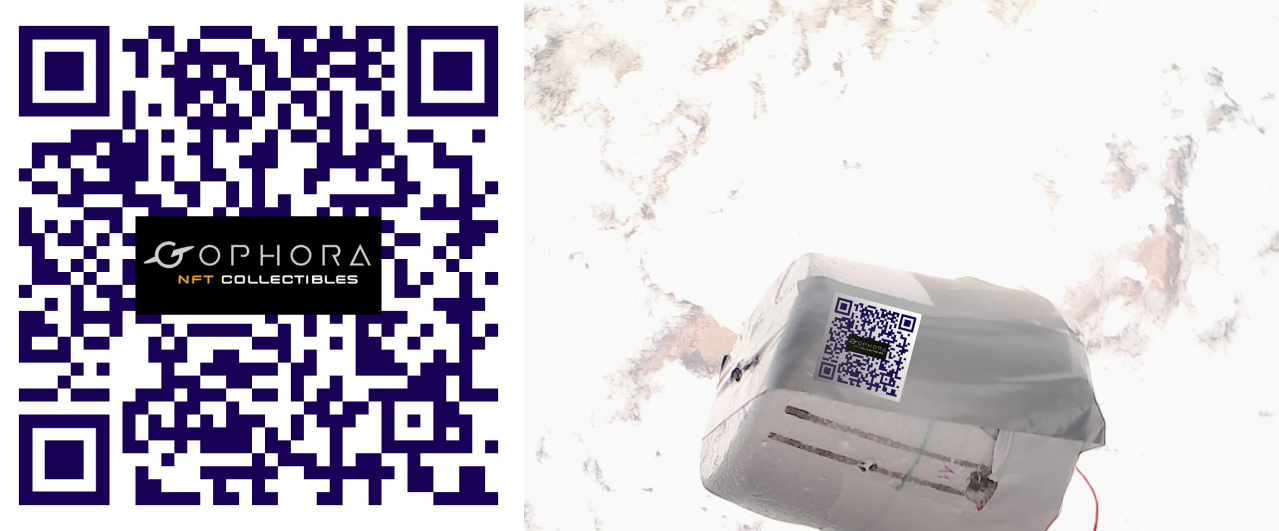
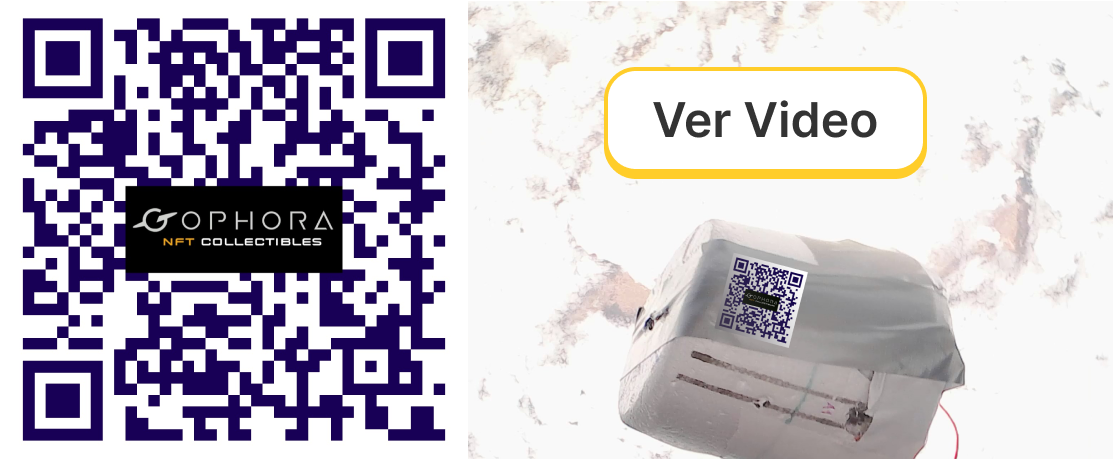
[update] general changes

diff --git a/src/screens/PreguntasScreen.jsx b/src/screens/PreguntasScreen.jsx
@@ -13,10 +13,18 @@ function PreguntasScreen() {
   return (
     <section className="home-section font-class font-sizesm my-5" id="preguntas">
         <div className="container d-flex flex-column align-items-center">
-            <h1 className="text-warning mb-5 desplegar" onClick={() => handleToggleVisibility('preguntasFrecuentes')}>Preguntas Frecuentes</h1>
+            <h1 className="text-warning mb-5 desplegar" onClick={() => handleToggleVisibility('preguntasFrecuentes')}>
+              Preguntas Frecuentes
+              {expandedSections['preguntasFrecuentes'] && (<i className="bi bi-caret-up"></i>)}
+              {!expandedSections['preguntasFrecuentes'] && (<i className="bi bi-caret-down"></i>)}
+              </h1>
               {expandedSections['preguntasFrecuentes'] && (
               <div>
-                <h3 className="text-warning mb-3 desplegar" onClick={() => handleToggleVisibility('quienesSomos')}>¿Quiénes somos?</h3>
+                <h3 className="text-warning mb-3 desplegar" onClick={() => handleToggleVisibility('quienesSomos')}>
+                  ¿Quiénes somos?
+                  {expandedSections['quienesSomos'] && (<i className="bi bi-caret-up"></i>)}
+                  {!expandedSections['quienesSomos'] && (<i className="bi bi-caret-down"></i>)}
+                </h3>
                   {expandedSections['quienesSomos'] && (
                   <div className='d-flex flex-column mb-5 text-light'>
                       <p>Bienvenidos a GOPHORA INC., una innovadora startup con base en Florida, EE. UU., fundada el 5 de Octubre de 2020 en Santa Cruz de la Sierra, Bolivia, a través del distinguido programa virtual del Founder Institute de Silicon Valley.</p>
@@ -33,7 +41,11 @@ function PreguntasScreen() {
                       <img src={gophoraTeam} alt="gophora team" className='img-fluid'  />
                   </div>
                   )}
-                <h3 className="text-warning mb-3 desplegar" onClick={() => handleToggleVisibility('pregunta2')}>¿Qué es y que contiene el QR que enviamos al espacio el 11.11.23?</h3>
+                <h3 className="text-warning mb-3 desplegar" onClick={() => handleToggleVisibility('pregunta2')}>
+                  ¿Qué es y que contiene el QR que enviamos al espacio el 11.11.23?
+                  {expandedSections['pregunta2'] && (<i className="bi bi-caret-up"></i>)}
+                  {!expandedSections['pregunta2'] && (<i className="bi bi-caret-down"></i>)}
+                </h3>
                   {expandedSections['pregunta2'] && (
                     <div className='d-flex flex-column mb-5 text-light'>
                         <p></p>El QR que subimos el 11.11.23 en un modulo que llevaba 5 experimentos al espacio es un reconocimiento a los holders de los GOPHORA NFT COLLECTIBLES, es un símbolo de que ellos ahora son parte de la siguiente generación de exploradores que colaboran desde 
@@ -44,7 +56,11 @@ function PreguntasScreen() {
                         <p></p>Es la primera vez en la historia en que todos los NO ASTRONAUTAS tenemos la oportunidad de acoplarnos desde nuestra vida diaria a la exploración espacial.
                     </div>
                   )}
-                <h3 className="text-warning mb-3 desplegar" onClick={() => handleToggleVisibility('pregunta3')}>¿Cuál es la visión Macro de GOPHORA?</h3>
+                <h3 className="text-warning mb-3 desplegar" onClick={() => handleToggleVisibility('pregunta3')}>
+                  ¿Cuál es la visión Macro de GOPHORA?
+                  {expandedSections['pregunta3'] && (<i className="bi bi-caret-up"></i>)}
+                  {!expandedSections['pregunta3'] && (<i className="bi bi-caret-down"></i>)}
+                </h3>
                   {expandedSections['pregunta3'] && (
                     <div className='d-flex flex-column mb-5 text-light'>
                       <p></p>En GOPHORA, creamos un futuro donde la exploración se convierte en una experiencia única y personalizada para cada individuo.
@@ -57,7 +73,11 @@ function PreguntasScreen() {
                       <p></p>GOPHORA no solo es una plataforma; es un movimiento que a los holders y tripulantes nos define cómo exploradores. 
                     </div>
                   )}
-                <h3 className="text-warning mb-3 desplegar" onClick={() => handleToggleVisibility('pregunta4')}>¿Qué son los GOPHORA NFT COLLECTIBLES?</h3>
+                <h3 className="text-warning mb-3 desplegar" onClick={() => handleToggleVisibility('pregunta4')}>
+                  ¿Qué son los GOPHORA NFT COLLECTIBLES?
+                  {expandedSections['pregunta4'] && (<i className="bi bi-caret-up"></i>)}
+                  {!expandedSections['pregunta4'] && (<i className="bi bi-caret-down"></i>)}
+                </h3>
                   {expandedSections['pregunta4'] && (
                     <div className='d-flex flex-column mb-5 text-light'>
                         <p></p>Los GOPHORA NFT Collectibles son llaves digitales de acceso temprano al ecosistema GOPHORA. 
@@ -68,7 +88,11 @@ function PreguntasScreen() {
                         <p></p> Los GOPHORA NFT Collectibles no solo son identificativos digitales de los intrépidos, innovadores, curiosos miembros de la siguiente generación de exploradores, sino que ofrecen un pasaporte exclusivo a un mundo de oportunidades dentro de GOPHORA, fusionando la propiedad digital con experiencias únicas y perpetuas en la exploración del espacio y el crecimiento personal.
                     </div>
                   )}
-                <h3 className="text-warning mb-3 desplegar" onClick={() => handleToggleVisibility('pregunta5')}>¿Qué significa ser Holder de uno de los NFT´s de GOPHORA?</h3>
+                <h3 className="text-warning mb-3 desplegar" onClick={() => handleToggleVisibility('pregunta5')}>
+                  ¿Qué significa ser Holder de uno de los NFT´s de GOPHORA?
+                  {expandedSections['pregunta5'] && (<i className="bi bi-caret-up"></i>)}
+                  {!expandedSections['pregunta5'] && (<i className="bi bi-caret-down"></i>)}
+                </h3>
                   {expandedSections['pregunta5'] && (
                     <div className='d-flex flex-column mb-5 text-light'>
                         <p></p>Ser holder de un GOPHORA NFT Collectible significa que eres el propietario de un Token No Fungible (NFT) específico emitido por GOPHORA Inc. Un NFT representa la propiedad única y verificable de un activo digital, en este caso, un GOPHORA NFT Collectible.
@@ -84,7 +108,11 @@ function PreguntasScreen() {
                         </ol>
                     </div>
                   )}
-                <h3 className="text-warning mb-3 desplegar" onClick={() => handleToggleVisibility('pregunta6')}>¿Qué son los Criptopurrs?</h3>
+                <h3 className="text-warning mb-3 desplegar" onClick={() => handleToggleVisibility('pregunta6')}>
+                  ¿Qué son los Criptopurrs?
+                  {expandedSections['pregunta6'] && (<i className="bi bi-caret-up"></i>)}
+                  {!expandedSections['pregunta6'] && (<i className="bi bi-caret-down"></i>)}
+                </h3>
                   {expandedSections['pregunta6'] && (
                     <div className='d-flex flex-column mb-5 text-light'>
                       <p></p>Los GOPHORA NFT Collectibles: Criptopurrs MARTE ID, Criptopurrs EA o Criptopurrs Investor son activos digitales únicos y coleccionables basados en la tecnología de tokens no fungibles (NFT). 
@@ -96,7 +124,11 @@ function PreguntasScreen() {
                       <p></p>Al adquirir un Criptopurr de GOPHORA, los usuarios no solo obtienen una llave  digital exclusiva, sino que también se convierten en parte de la narrativa y la evolución de GOPHORA, contribuyendo a su misión de trascender los límites de la exploración y la vida en otros mundos.
                     </div>
                   )}
-                <h3 className="text-warning mb-3 desplegar" onClick={() => handleToggleVisibility('pregunta7')}>¿Qué utilidad tiene el NFT MARTE ID?</h3>
+                <h3 className="text-warning mb-3 desplegar" onClick={() => handleToggleVisibility('pregunta7')}>
+                  ¿Qué utilidad tiene el NFT MARTE ID?
+                  {expandedSections['pregunta7'] && (<i className="bi bi-caret-up"></i>)}
+                  {!expandedSections['pregunta7'] && (<i className="bi bi-caret-down"></i>)}
+                </h3>
                 {expandedSections['pregunta7'] && (
                     <div className='d-flex flex-column mb-5 text-light'>
                       <p></p>Los CRIPTOPURRS MARTE ID representan accesos digitales exclusivos a la GOPHORA STARSHIP, diseñados para los niveles 1 y 2.
@@ -107,7 +139,11 @@ function PreguntasScreen() {
                       <p></p>Con la capacidad de combinar estas oportunidades de manera única, cada tripulante puede obtener un resultado personalizado que potencie su crecimiento y desarrollo.
                     </div>
                   )}
-                <h3 className="text-warning mb-3 desplegar" onClick={() => handleToggleVisibility('pregunta8')}>¿Qué utilidad tiene el NFT CRIPTOPURR EA?</h3>
+                <h3 className="text-warning mb-3 desplegar" onClick={() => handleToggleVisibility('pregunta8')}>
+                  ¿Qué utilidad tiene el NFT CRIPTOPURR EA?
+                  {expandedSections['pregunta8'] && (<i className="bi bi-caret-up"></i>)}
+                  {!expandedSections['pregunta8'] && (<i className="bi bi-caret-down"></i>)}
+                </h3>
                 {expandedSections['pregunta8'] && (
                     <div className='d-flex flex-column mb-5 text-light'>
                       <p></p>Los CRIPTOPURRS EA representan accesos digitales más exclusivos a la GOPHORA STARSHIP, diseñados para los niveles 3 y 4.
@@ -117,7 +153,11 @@ function PreguntasScreen() {
                       <p></p>Aquí, la experiencia es totalmente automática y no requiere la destreza del tripulante como piloto. Esta modalidad proporciona combinaciones de experiencia inmediatas, y también le brinda al tripulante acceso a horizontes a medida del tripulante holder para  obtener un resultado personalizado que potencie su crecimiento y desarrollo.
                     </div>
                   )}
-                <h3 className="text-warning mb-3 desplegar" onClick={() => handleToggleVisibility('pregunta9')}>¿Cómo puedo comprar uno de los NFTs de GOPHORA?</h3>
+                <h3 className="text-warning mb-3 desplegar" onClick={() => handleToggleVisibility('pregunta9')}>
+                  ¿Cómo puedo comprar uno de los NFTs de GOPHORA?
+                  {expandedSections['pregunta9'] && (<i className="bi bi-caret-up"></i>)}
+                  {!expandedSections['pregunta9'] && (<i className="bi bi-caret-down"></i>)}  
+                </h3>
                   {expandedSections['pregunta9'] && (
                     <div className='d-flex flex-column mb-5 text-light'>
                       <p></p>Actualmente los GOPHORA NFT COLLECTIBLES : Criptopurrs pueden ser adquiridos por venta directa en GOPHORA desde el formulario de Preembarque o desde Open Sea según los siguientes precios:
@@ -126,7 +166,11 @@ function PreguntasScreen() {
                       </a>
                     </div>
                   )}
-                <h3 className="text-warning mb-3 desplegar" onClick={() => handleToggleVisibility('pregunta10')}>¿Qué es la GOPHORA STARSHIP?</h3>
+                <h3 className="text-warning mb-3 desplegar" onClick={() => handleToggleVisibility('pregunta10')}>
+                  ¿Qué es la GOPHORA STARSHIP?
+                  {expandedSections['pregunta10'] && (<i className="bi bi-caret-up"></i>)}
+                  {!expandedSections['pregunta10'] && (<i className="bi bi-caret-down"></i>)}  
+                </h3>
                   {expandedSections['pregunta10'] && (
                     <div className='d-flex flex-column mb-5 text-light'>
                       <p></p>La GOPHORA STARSHIP es la avanzada plataforma central de GOPHORA, diseñada para ofrecer una experiencia única de exploración personal y profesional que no solo beneficia al tripulante sino deja un registro de contribución y habilidades excepcionales que son conectadas con la exploración espacial para que podamos ser sustentables y sostenibles en nuevos horizontes. 
@@ -140,7 +184,11 @@ function PreguntasScreen() {
                       <p></p>La GOPHORA STARSHIP redefine la exploración al fusionar lo manual y lo automático, brindando oportunidades personalizadas y exclusivas a cada tripulante. Descubre un viaje hacia horizontes sin igual en GOPHORA STARSHIP.
                     </div>
                   )}
-                <h3 className="text-warning mb-3 desplegar" onClick={() => handleToggleVisibility('pregunta11')}>¿En cuántos países estará disponible la herramienta GOPHORA STARSHIP?</h3>
+                <h3 className="text-warning mb-3 desplegar" onClick={() => handleToggleVisibility('pregunta11')}>
+                  ¿En cuántos países estará disponible la herramienta GOPHORA STARSHIP?
+                  {expandedSections['pregunta11'] && (<i className="bi bi-caret-up"></i>)}
+                  {!expandedSections['pregunta11'] && (<i className="bi bi-caret-down"></i>)}
+                </h3>
                   {expandedSections['pregunta11'] && (
                     <div className='d-flex flex-column mb-5 text-light'>
                       <p></p>La herramienta GOPHORA STARSHIP tiene como objetivo llegar a múltiples países en diversas fases estratégicas, por el momento es impreciso estimar un número pero si estaremos presentes en diferentes idiomas, y regiones del mundo. 
@@ -153,7 +201,11 @@ function PreguntasScreen() {
                       <p></p>GOPHORA STARSHIP se proyecta como una herramienta global, disponible en diversos países, permitiendo a personas de diferentes culturas y regiones explorar nuevas oportunidades y contribuir a la exploración del espacio.
                     </div>
                   )}
-                <h3 className="text-warning mb-3 desplegar" onClick={() => handleToggleVisibility('pregunta12')}>¿Cuál es la ventaja de comprar AHORA un GOPHORA NFT COLLECTIBLE?</h3>
+                <h3 className="text-warning mb-3 desplegar" onClick={() => handleToggleVisibility('pregunta12')}>
+                  ¿Cuál es la ventaja de comprar AHORA un GOPHORA NFT COLLECTIBLE?
+                  {expandedSections['pregunta12'] && (<i className="bi bi-caret-up"></i>)}
+                  {!expandedSections['pregunta12'] && (<i className="bi bi-caret-down"></i>)}
+                </h3>
                   {expandedSections['pregunta12'] && (
                     <div className='d-flex flex-column mb-5 text-light'>
                       <p>La compra de un GOPHORA NFT Collectible ahora ofrece varias ventajas distintivas:</p>
@@ -168,7 +220,11 @@ function PreguntasScreen() {
                       <p></p>Comprar ahora un GOPHORA NFT Collectible no solo te brinda acceso privilegiado a la plataforma y beneficios exclusivos, sino que también representa una oportunidad de ser parte de la comunidad de exploradores y beneficiarte de su valor a lo largo del tiempo.
                     </div>
                   )}
-                <h3 className="text-warning mb-3 desplegar" onClick={() => handleToggleVisibility('pregunta13')}>¿Cómo se holdean o guardan los NFTs de GOPHORA?</h3>
+                <h3 className="text-warning mb-3 desplegar" onClick={() => handleToggleVisibility('pregunta13')}>
+                  ¿Cómo se holdean o guardan los NFTs de GOPHORA?
+                  {expandedSections['pregunta13'] && (<i className="bi bi-caret-up"></i>)}
+                  {!expandedSections['pregunta13'] && (<i className="bi bi-caret-down"></i>)}  
+                </h3>
                   {expandedSections['pregunta13'] && (
                     <div className='d-flex flex-column mb-5 text-light'>
                       <p>Holdear (o &quot;HODL&quot; en la jerga criptográfica) los GOPHORA NFT Collectibles es un proceso sencillo que implica retenerlos a largo plazo en lugar de venderlos de inmediato.</p>
@@ -184,7 +240,11 @@ function PreguntasScreen() {
                       </ol>
                     </div>
                   )}
-                <h3 className="text-warning mb-3 desplegar" onClick={() => handleToggleVisibility('pregunta14')}>¿Cómo puedo formar parte del proyecto?</h3>
+                <h3 className="text-warning mb-3 desplegar" onClick={() => handleToggleVisibility('pregunta14')}>
+                  ¿Cómo puedo formar parte del proyecto?
+                  {expandedSections['pregunta14'] && (<i className="bi bi-caret-up"></i>)}
+                  {!expandedSections['pregunta14'] && (<i className="bi bi-caret-down"></i>)}
+                </h3>
                   {expandedSections['pregunta14'] && (
                     <div className='d-flex flex-column mb-5 text-light'>
                       <p>Puedes formar parte de GOPHORA STARSHIP en diferentes formas, desde ser un usuario activo hasta contribuir como miembro de la comunidad o incluso explorar oportunidades más colaborativas.</p>
@@ -201,7 +261,11 @@ function PreguntasScreen() {
                       </ol>
                     </div>
                   )}
-                <h3 className="text-warning mb-3 desplegar" onClick={() => handleToggleVisibility('pregunta15')}>¿Cómo invertir en GOPHORA?</h3>
+                <h3 className="text-warning mb-3 desplegar" onClick={() => handleToggleVisibility('pregunta15')}>
+                  ¿Cómo invertir en GOPHORA?
+                  {expandedSections['pregunta15'] && (<i className="bi bi-caret-up"></i>)}
+                  {!expandedSections['pregunta15'] && (<i className="bi bi-caret-down"></i>)}  
+                </h3>
                   {expandedSections['pregunta15'] && (
                     <div className='d-flex flex-column mb-5 text-light'>
                       <p>Puedes invertir en GOPHORA de 2 maneras:</p>

diff --git a/src/screens/NFTcollectibles.jsx b/src/screens/NFTcollectibles.jsx
@@ -12,10 +12,18 @@ function NFTcollectibles() {
             {/* <span className="text-warning">NFT </span> */}
              MEMBRESIAS
         </h1>
-        <p className="text-light text-center font-class w-75 pb-5">
-          {/* *Obtén tu acceso directamente desde GOPHORA antes que se agote nuestro suministro limitado de NFTs para tu país y tengas que ir a OpenSea o adquirir un plan de pago por suscripción.”  */}
-          *Obtén tu acceso directamente desde GOPHORA antes que tengas que adquirir un plan de pago por suscripción.” 
-        </p>
+        <div className="text-light d-flex justify-content-center font-class w-75 pb-5">
+              <ul>
+                <li>Nombre en QR Espacial.</li>
+                <li>Horizontes de Trabajo ilimitados.</li>
+                <li>Horizontes de Educación ilimitados.</li>
+                <li>Horizontes de Experiencias hobbies ilimitados.</li>
+                <li>(Próximamente) 20% de descuento en accesorios para experiencia GOPHORA AR/VR.</li>
+                <li>(Próximamente) Contribución sobre Blockchain.</li>
+                <li>(Próximamente) Acceso a Metaverso GOPHORA.</li>
+              </ul>
+        </div>
+
         <h2 className="font-class my-3 text-center font-2">
           {/* DISPONIBLES */}
           {/* Accesos para Tripulantes */}
@@ -95,16 +103,20 @@ function NFTcollectibles() {
           pm="2800"
         />
         {/* GUIA */}
-        <h1 className="text-light font-class p-5">
+        <h1 className="text-warning font-class p-5">
             {/* GUÍA PARA COMPRAR UN <span className="text-warning">NFT </span> GOPHORA */}
             GUÍA PARA RECIBIR UN ACCESO DIGITAL <span className="text-warning">NFT </span> GOPHORA
         </h1>
         <p className="text-light text-center font-class w-75 p-5">
-        Descarga una billetera cripto, puede ser Metamask o Coinbase WALLET, si ya tienes una ¡perfecto! solo asegúrate que tengas una dirección de Ethereum a la cual se te podamos mandar tus GOPHORA NFT COLLECTIBLES CRIPTOPURRS MARTE ID o CRIPTOPURRS EA.
+          Descarga una billetera cripto, puede ser Metamask o Coinbase WALLET, si ya tienes una ¡perfecto! solo asegúrate que tengas una dirección de Ethereum a la cual se te podamos mandar tus GOPHORA NFT COLLECTIBLES CRIPTOPURRS MARTE ID o CRIPTOPURRS EA.
         </p>
-        <div className="container-fluid p-0">
+        <button className="font-class nav-link my-nav-link2 p-3 fs-1">
+          <a href="https://drive.google.com/file/d/16gu75RxbMBrJIigcQsgJqQAiUESbdxeB/preview" target="_blank" rel="noopener noreferrer" style={{ color: 'inherit', textDecoration: 'none' }}>
+            Ver Video
+          </a>
+        </button>
+        {/* <div className="container-fluid p-0">
           <div className="col-12 d-flex justify-content-center align-items-center p-0">
-              {/* <img src={criptopurrs} alt="Criptopurrs" className="img-full-height"/> */}
               <div style={{ position: "relative", width: "100%", paddingTop: "56.25%" }}>
                 <iframe
                   style={{ position: "absolute", top: 0, left: 0, width: "100%", height: "100%" }}
@@ -115,11 +127,16 @@ function NFTcollectibles() {
                 ></iframe>
               </div>
             </div>
-        </div>
+        </div> */}
         <p className="text-light text-center font-class w-75 p-5">
           ¡Super!, ya tienes una dirección de Ethereum, ahora tienes que llenar el <span className="text-warning">FORMULARIO DE PREEMBARQUE</span>, este es un Formulario de Pre-venta que te conectará directamente con nuestro departamento comercial, el cuál te ayudará a terminar el proceso de compra de tu NFT, puedes pagar en efectivo con transferencia QR
         </p>
         {/* aÑADIR Formulario */}
+        <button className="font-class nav-link my-nav-link2 p-3 fs-1">
+          <a href="https://drive.google.com/file/d/16gu75RxbMBrJIigcQsgJqQAiUESbdxeB/preview" target="_blank" rel="noopener noreferrer" style={{ color: 'inherit', textDecoration: 'none' }}>
+            Formulario
+          </a>
+        </button>
         <ComprarScreen/>
         {/*  */}
         <p className="text-light text-center font-class w-75 p-5">

diff --git a/src/screens/HomeScreen.jsx b/src/screens/HomeScreen.jsx
@@ -71,8 +71,11 @@ function HomeScreen() {
           <img ref={image2Ref} src={firstPage2} alt="Our team" className="first-page-image d-md-none"/>
           <img ref={image3Ref} src={firstPage} alt="Our team" className="first-page-image d-none d-md-block"/>
           <div className="d-flex flex-column justify-content-center align-items-center">
-            <p className="font-class text-light first-page-text py-5 my-5">Nuestras membresías incluyen una <span className="text-warning">llave digital</span> de acceso a la
+            {/* <p className="font-class text-light first-page-text py-5 my-5">Nuestras membresías incluyen una <span className="text-warning">llave digital</span> de acceso a la
               GOPHORA STARSHIP. ¡El PREEMBARQUE está abierto!
+            </p> */}
+            <p className="font-class text-light first-page-text py-5 my-5">
+              ¡El PREEMBARQUE está abierto! <span className="text-warning">Compra tu membresía</span> hasta el 19 de Junio de 2024 y te la <span className="text-warning">TRIPLICAREMOS</span> en el momento de su activación. Oferta valida solo para Bolivia.
             </p>
             {/* <img src={qr} alt="Our team" className="img-fluid" style={{maxWidth:'100px'}}/> */}
           </div>
@@ -82,7 +85,9 @@ function HomeScreen() {
           <div className="">
             <img src={qr} alt="Our team" className="img-fluid d-md-none"/>
             <img src={qrglobe} alt="Our team" className="img-fluid d-md-none"/>
-            <img src={qrandglobe} alt="Our team" className="img-fluid d-none d-md-block"/>
+            <a href="https://drive.google.com/file/d/1geiLfvac36_PAKVqskkZQ5WI19d2Lnc6/preview" target="_blank" rel="noopener noreferrer">
+              <img src={qrandglobe} alt="Our team" className="img-fluid d-none d-md-block"/>
+            </a>
           </div>
         </div>
 
@@ -143,7 +148,7 @@ function HomeScreen() {
                   </div> */}
                 </div>
             </div>
-            <div className="col-12 d-flex justify-content-center align-items-center p-0">
+            {/* <div className="col-12 d-flex justify-content-center align-items-center p-0">
               <div style={{ position: "relative", width: "100%", paddingTop: "56.25%" }}>
                 <iframe
                   style={{ position: "absolute", top: 0, left: 0, width: "100%", height: "100%" }}
@@ -153,7 +158,11 @@ function HomeScreen() {
                   allowFullScreen
                 ></iframe>
               </div>
-            </div>
+            </div> */}
+            <p className="text-light text-center font-class w-75 pb-5">
+              {/* *Obtén tu acceso directamente desde GOPHORA antes que se agote nuestro suministro limitado de NFTs para tu país y tengas que ir a OpenSea o adquirir un plan de pago por suscripción.”  */}
+              *Obtén tu acceso directamente desde GOPHORA antes que tengas que adquirir un plan de pago por suscripción.” 
+            </p>
           </div>
         </div>
         {/* <div className='container my-5'>
@@ -214,6 +223,7 @@ function HomeScreen() {
             </div>
           </div>
         </div> */}
+        
         {/* <div className="container">
           <p className="text-light text-justify font-class">La misión de la herramienta GOPHORA STARSHIP es entregar horizontes personalizados a sus tripulantes en trabajo, educación y experiencias Hobbies que desde la vida diaria desarrollen su potencial de contribución y legado en la exploración espacial.
           <br/>Todos son importantes para lograr ser sustentables y sostenibles en nuevos horizontes,, GOPHORA rescata el talento y la voluntad humana y la conecta con la exploración de nuevos horizontes.

diff --git a/src/screens/TeamScreen.jsx b/src/screens/TeamScreen.jsx
@@ -14,7 +14,11 @@ function TeamScreen() {
   return (
     // <section className="home-section font-class d-flex flex-column justify-content-end" style={{ backgroundImage: `url(${backgroundImage})`,minHeight: "100vh" }}>
     <section className="font-class d-flex flex-column justify-content-center align-items-center" id="team">
-        <h1 className="text-warning mb-5 desplegar" onClick={handleToggleVisibility}>TEAM</h1>
+        <h1 className="text-warning mb-5 desplegar" onClick={handleToggleVisibility}>
+            TEAM
+            {isSectionVisible && (<i className="bi bi-caret-up"></i>)}
+            {!isSectionVisible && (<i className="bi bi-caret-down"></i>)}
+        </h1>
         {isSectionVisible && (
             
         <div className="container my-2">

diff --git a/src/screens/RoadmapScreen.jsx b/src/screens/RoadmapScreen.jsx
@@ -40,8 +40,14 @@ function RoadmapScreen() {
           </div>
         </div>
       </div> */}
-      <h1 className="text-warning mb-5 desplegar" onClick={handleToggleVisibility}>ROADMAP</h1>
-      {isSectionVisible && (
+      <h1 className="text-warning mb-5 desplegar" onClick={handleToggleVisibility}>
+        ROADMAP
+        {isSectionVisible && (  
+        <i className="bi bi-caret-up"></i>)}
+        {!isSectionVisible && (  
+        <i className="bi bi-caret-down"></i>)}
+      </h1>
+      {isSectionVisible && (  
       <div>
       <div className="row d-flex align-items-center mb-5">
           <div className="col-4 text-center">

diff --git a/src/index.css b/src/index.css
@@ -290,7 +290,7 @@ body {
   transform: translateY(0);
 }
 .first-page-text{
-  max-width: 40rem;
+  max-width: 100rem;
   text-align: center;
 }
 /* Product seccion */
